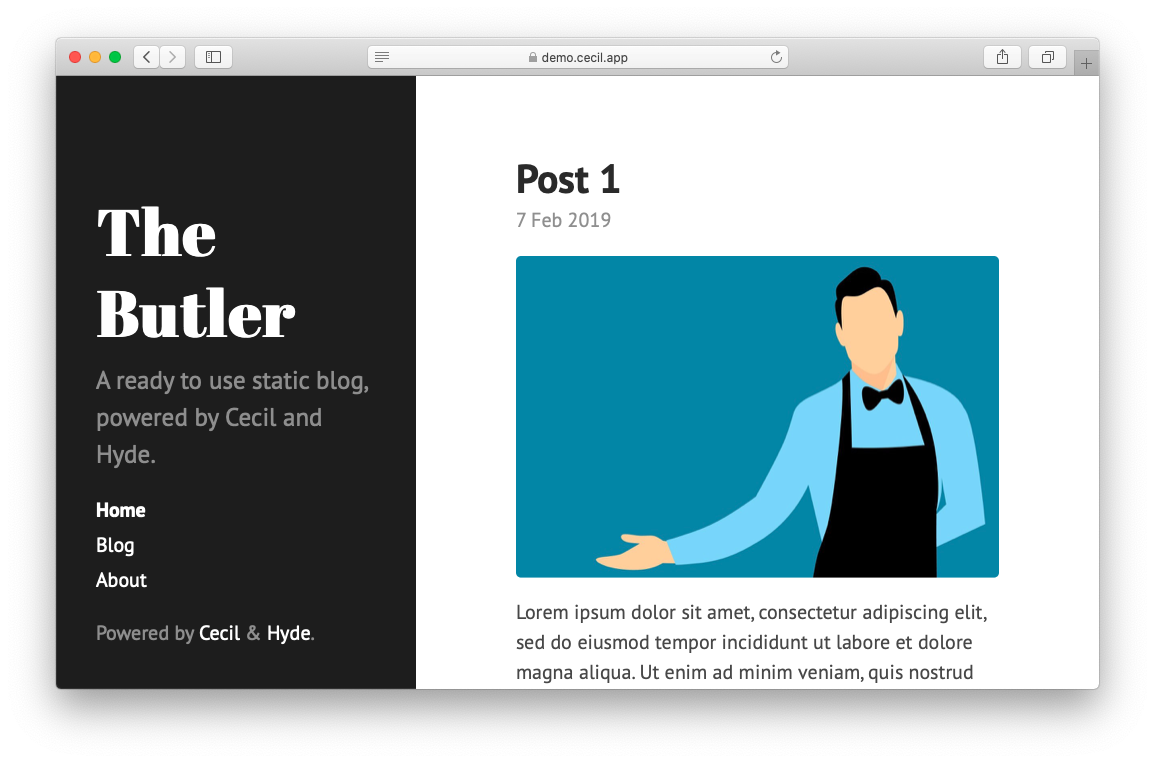
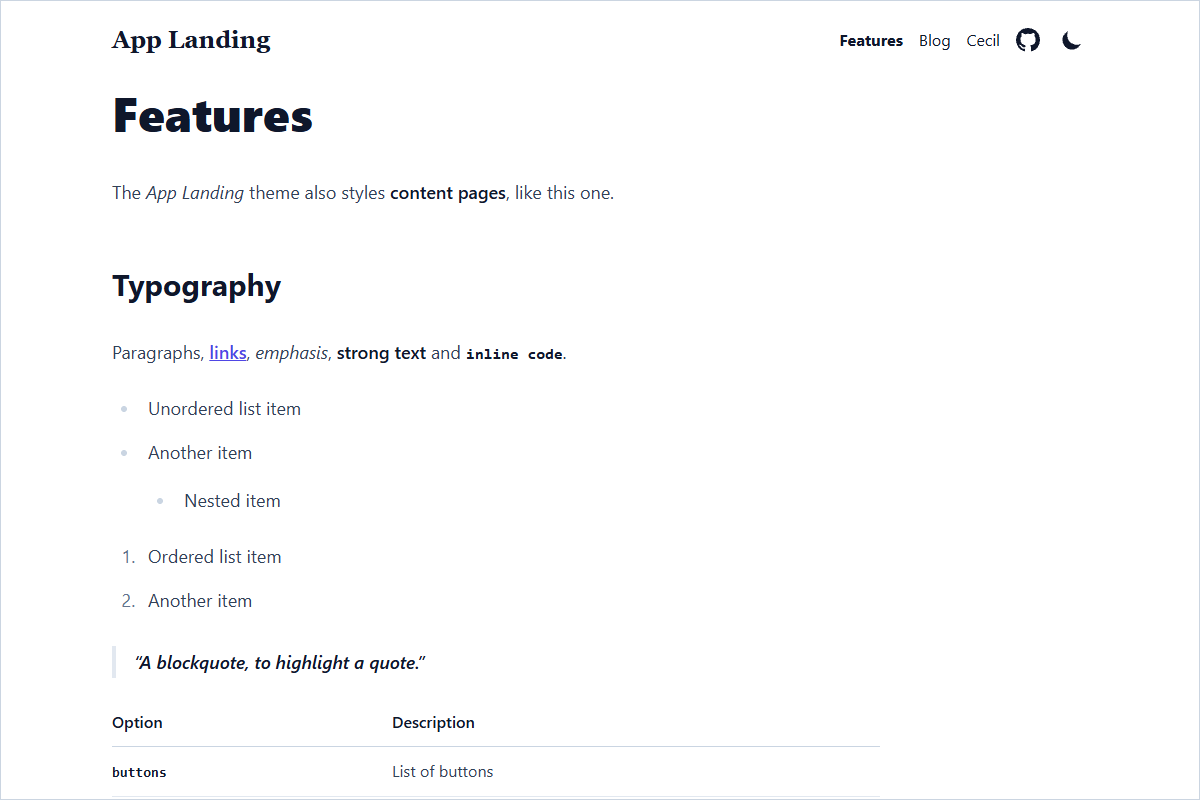
ci: showcase the screenshot dark and mobile variants in the demo
The demo screenshot is now a content page of the demo itself, with
dark (`.dark`), mobile (`.mobile`) and mobile dark variants.

Also document that the dark variant follows the system preference.

diff --git a/README.md b/README.md
@@ -103,6 +103,8 @@ To display a distinct image on mobile, add an image suffixed with `.mobile` alon
 
 To display a dark mode variant, add an image suffixed with `.dark` alongside the original one (e.g.: `preview.dark.png`). The suffix can be changed with the [`layouts.images.dark_suffix`](https://cecil.app/documentation/configuration/layouts/) option.
 
+> The dark variant follows the system preference (`prefers-color-scheme` media query), not the choice made with the dark mode toggle button.
+
 ### Dark mode toggle
 
 By default, the color scheme follows the system preference. To add a toggle button in the header, install the [darkmodetoggle](https://github.com/Cecilapp/theme-darkmodetoggle) component theme and enable it before `applanding`:
